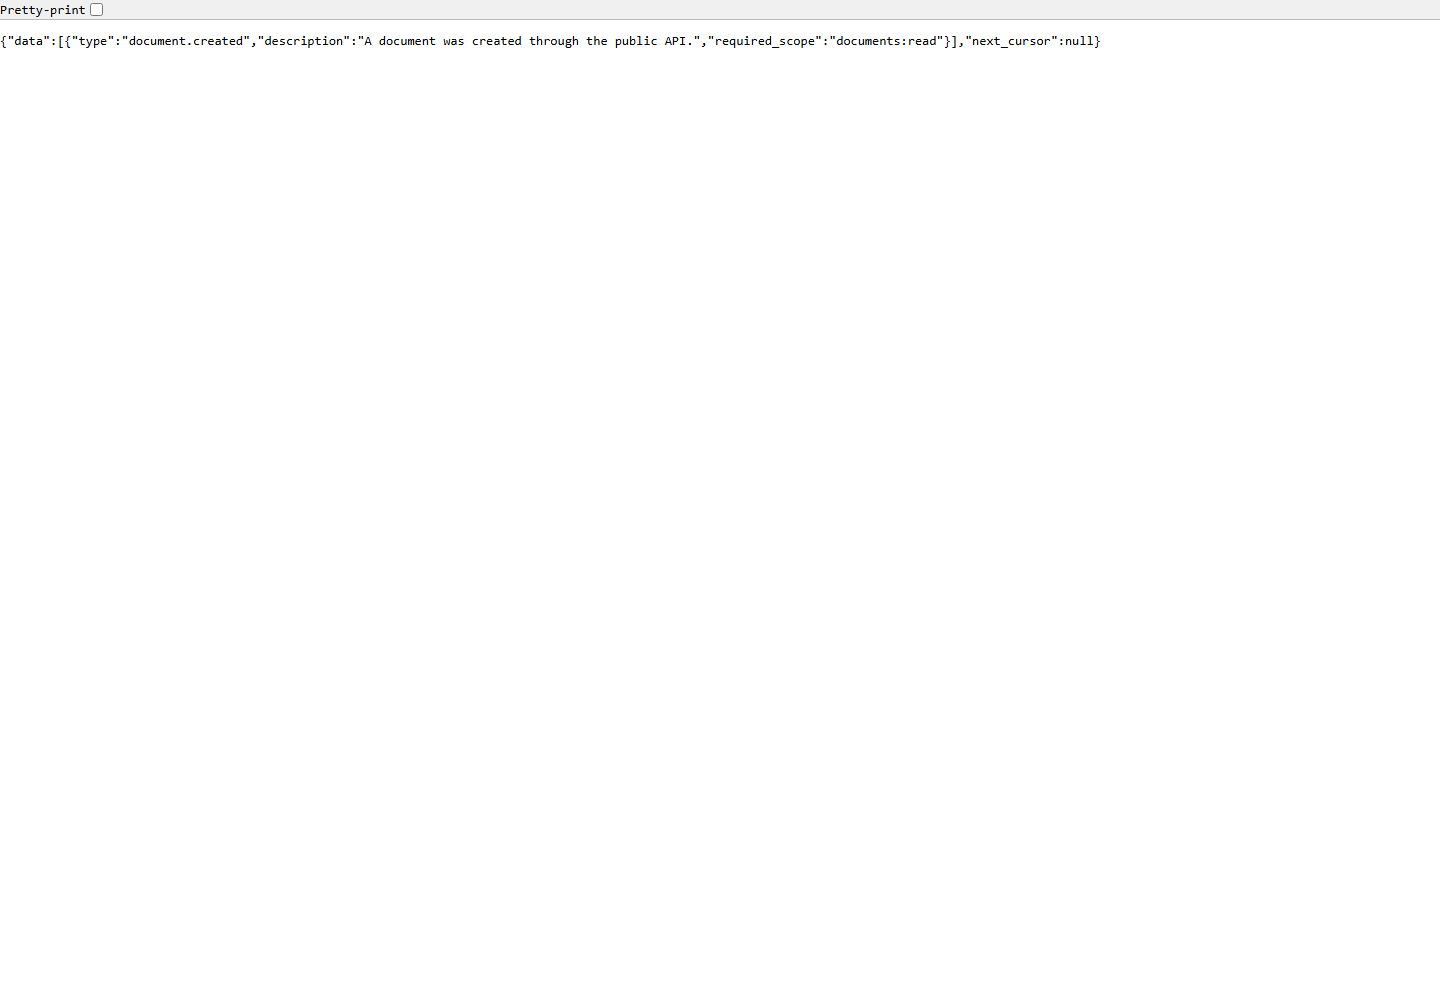
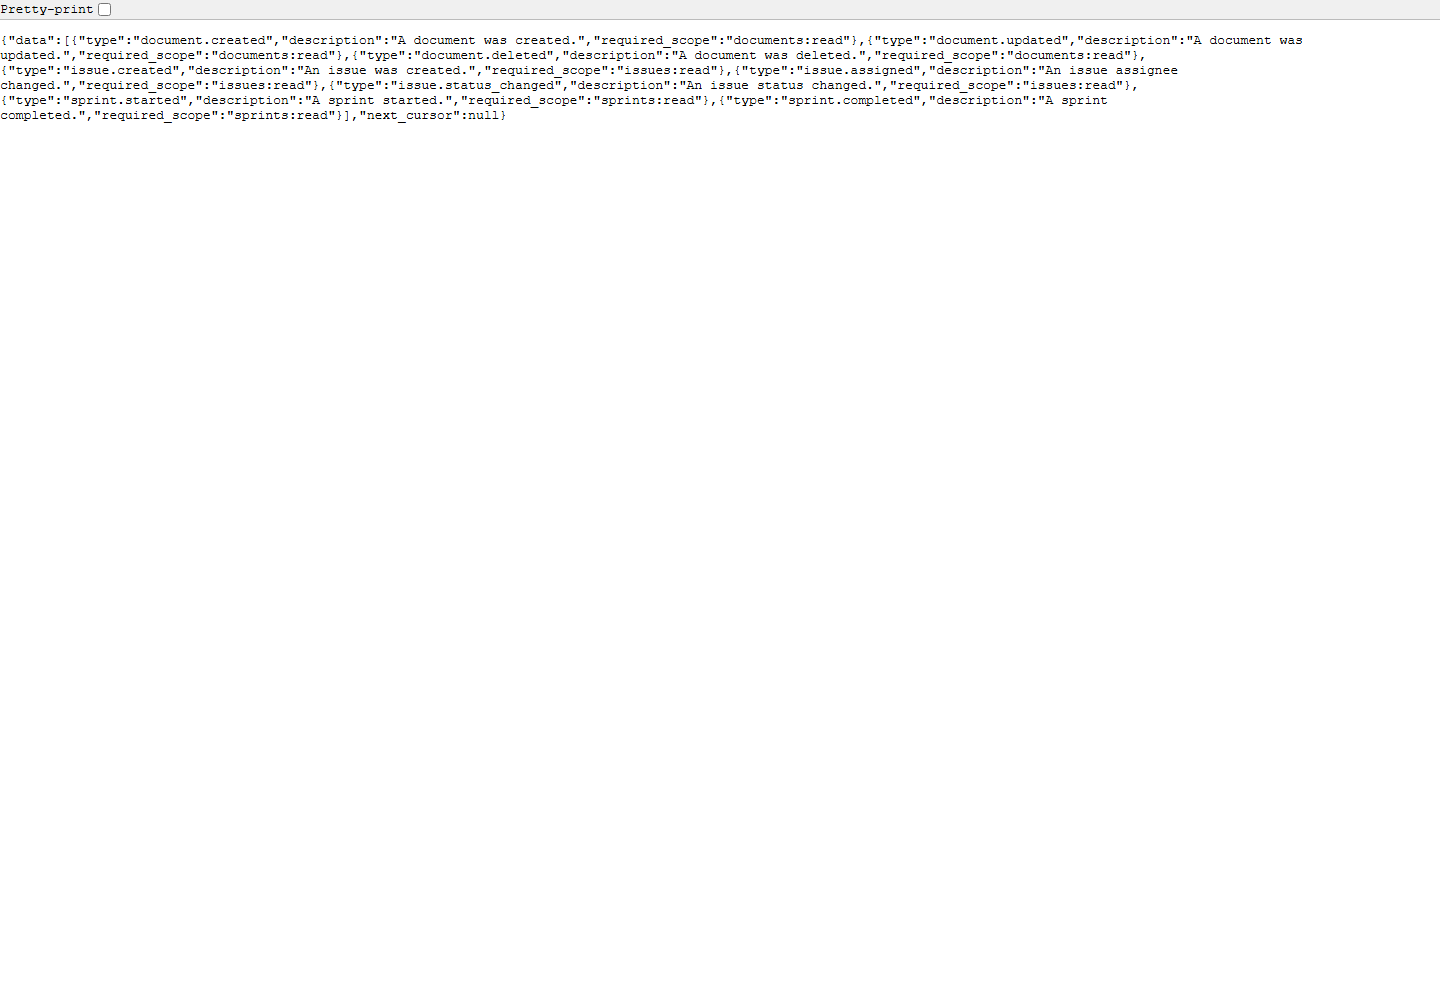
Document live Plugforge deployment parity

Changed region(s): [[0.0, 0.0, 0.8125, 0.124], [0.8438, 0.031, 0.9062, 0.062]]

diff --git a/PLUGFORGE_SUBMISSION_CHECKLIST.md b/PLUGFORGE_SUBMISSION_CHECKLIST.md
@@ -40,16 +40,17 @@ Use this as the quick evidence map for the Week 6 Plugforge submission.
 - Public scopes registry: `https://d2rr1fze9v095b.cloudfront.net/api/v1/scopes`
 - Public webhook event registry: `https://d2rr1fze9v095b.cloudfront.net/api/v1/webhooks/events`
 - API health through CloudFront: `https://d2rr1fze9v095b.cloudfront.net/health`
-- Elastic Beanstalk version verified: `v20260602113723`
+- Elastic Beanstalk version verified: `v20260603152032`
 - Production read-only OAuth app created: `Plugforge MVP Read-Only Grader App`
 - Production read-only OAuth `client_id`: `ship_app_8d138f5f898a7dd8bd9ae88e1d6f18c5`
 - Production read-only scopes: `documents:read`
 - Production full demo OAuth app: `Plugforge MVP Grader App`
 - Production full demo OAuth `client_id`: `ship_app_d8200057ae8afcd914151e0738af09f3`
 - Production full demo scopes: `documents:read`, `documents:write`, `webhooks:manage`
-- Production webhook registry currently exposes the deployed `document.created`
-  event. This branch expands the registry to all required events and should be
-  deployed before external grading.
+- Production webhook registry exposes all eight required events:
+  `document.created`, `document.updated`, `document.deleted`, `issue.created`,
+  `issue.assigned`, `issue.status_changed`, `sprint.started`, and
+  `sprint.completed`.
 
 ## Live MVP Proof
 
@@ -102,11 +103,11 @@ node integrations/cli/src/index.mjs --help
 | Per-app/per-token rate limiting | Pass: `api/src/platform/ratelimit.ts`; platform tests assert token isolation, shared app bucket enforcement, `X-RateLimit-*`, and `Retry-After`; generated OpenAPI declares those headers. |
 | Public audit trail | Pass: `api/src/platform/audit.ts`; `/api/v1/oauth/apps/{id}/audit`; Developer Portal API Activity table. |
 | Developer Portal controls | Pass: `web/src/pages/DeveloperPortal.tsx` lists/registers apps, shows/rotates one-time secrets, manages subscriptions, browses deliveries, replays deliveries, and shows public API audit rows. |
-| Webhook event registry and schemas | Pass in branch: `api/src/platform/events.ts` registers `document.created`, `document.updated`, `document.deleted`, `issue.created`, `issue.assigned`, `issue.status_changed`, `sprint.started`, and `sprint.completed` with Zod schemas. |
-| Event bus and domain publication | Pass in branch: `IEventBus` and in-process implementation live in `api/src/platform/events.ts`; document writes publish from `api/src/platform/domain/documents.ts`; fitness blocks route-layer webhook publication. |
+| Webhook event registry and schemas | Pass: `api/src/platform/events.ts` registers `document.created`, `document.updated`, `document.deleted`, `issue.created`, `issue.assigned`, `issue.status_changed`, `sprint.started`, and `sprint.completed` with Zod schemas; live registry verified on `v20260603152032`. |
+| Event bus and domain publication | Pass: `IEventBus` and in-process implementation live in `api/src/platform/events.ts`; document writes publish from `api/src/platform/domain/documents.ts`; fitness blocks route-layer webhook publication. |
 | Webhook signing, retries, DLQ, replay | Pass: `api/src/platform/webhooks.ts`; tests assert `Ship-Signature`, `Idempotency-Key`, first retry near 1s, 4xx dead-lettering, delivery listing, replay, rotation, and deactivation. |
 | Regression and performance guardrails | Partial in this session: focused Playwright PKCE, `plugforge:final-check`, `plugforge:fitness`, type-check, and build passed. Full 600+ Playwright suite should be run via the repo E2E runner workflow, not directly. |
-| Deployed public app and grader app | Pass for current deployed MVP: CloudFront URLs above plus read-only grader app. Expanded webhook registry changes are branch-ready and need deployment before graders inspect all eight events live. |
+| Deployed public app and grader app | Pass: CloudFront URLs above plus read-only grader app; Elastic Beanstalk version `v20260603152032` exposes the all-event webhook registry live. |
 
 ## Demo Flow
 

diff --git a/PLUGFORGE_FINAL_SUBMISSION.md b/PLUGFORGE_FINAL_SUBMISSION.md
@@ -93,7 +93,7 @@ new app.
 | Developer Portal app/webhook management | `web/src/pages/DeveloperPortal.tsx` lists/registers apps, shows/rotates one-time secrets, manages subscriptions, browses deliveries, opens delivery details, and sends/replays delivery workflows through public platform endpoints including `/api/v1/oauth/apps/{id}/webhook-deliveries/{deliveryId}/replay`. |
 | Webhook event registry, domain event bus, signing, retries, DLQ, replay | `api/src/platform/events.ts` defines event types and Zod schemas as data; domain writes publish through `IEventBus`; `api/src/platform/webhooks.ts` signs with `Ship-Signature`, retries 5xx/timeouts on `1s, 4s, 16s, 1m, 5m, 30m`, dead-letters 4xx/permanent failures, and preserves `Idempotency-Key` on replay. |
 | Existing regression/perf guardrails | Focused Playwright PKCE passed; `plugforge:final-check`, `plugforge:fitness`, type-check, and build passed. Full 600+ Playwright regression suite was not rerun in this constrained session; use the repo E2E runner workflow for the complete mainline gate. |
-| Deployed and publicly accessible with OpenAPI and read-only grader app | Live URLs above; read-only app `ship_app_8d138f5f898a7dd8bd9ae88e1d6f18c5`. The expanded webhook registry is implemented and tested locally; deploy this branch before grader review to expose all eight event definitions live. |
+| Deployed and publicly accessible with OpenAPI and read-only grader app | Live URLs above; read-only app `ship_app_8d138f5f898a7dd8bd9ae88e1d6f18c5`. Production is on Elastic Beanstalk version `v20260603152032`; the live webhook registry exposes all eight required event definitions. |
 
 ## Performance Target Map
 
@@ -228,8 +228,7 @@ proof above used an ephemeral Webhook.site URL, then verified Ship's
   `document.created`, `document.updated`, `document.deleted`, `issue.created`,
   `issue.assigned`, `issue.status_changed`, `sprint.started`, and
   `sprint.completed`.
-- Production currently responds with the deployed `document.created` registry;
-  the branch contains and tests the expanded registry and needs deployment before
-  final external grading.
+- Production webhook registry exposes all eight required event types on Elastic
+  Beanstalk version `v20260603152032`.
 - Operational tradeoffs and next steps are documented in
   `PLUGFORGE_OPERATIONAL_READINESS.md`.

diff --git a/PLUGFORGE_SUBMISSION_REQUIREMENTS.md b/PLUGFORGE_SUBMISSION_REQUIREMENTS.md
@@ -12,7 +12,7 @@ Deadline: Sunday 10:59 PM CT.
 | AI cost analysis | Ready | `PLUGFORGE_AI_COST_ANALYSIS.md` tracks dev spend, production projections, webhook fanout, agent active rate, and retention assumptions. |
 | Per-epic write-up | Ready | `PLUGFORGE_PER_EPIC_WRITEUP.md`. Epic 6 proof is TTFE/flows; Epic 7 proof target is agent OAuth app audit rows. |
 | Three discoveries | Ready | `PLUGFORGE_DISCOVERIES.md`. |
-| Deployed application | Ready for current MVP | `PLUGFORGE_FINAL_SUBMISSION.md` lists live app, Developer Portal, OpenAPI URL, read-only OAuth app, and reviewer credentials. Branch changes after MVP submission should be deployed before final external grading. |
+| Deployed application | Ready | `PLUGFORGE_FINAL_SUBMISSION.md` lists live app, Developer Portal, OpenAPI URL, read-only OAuth app, reviewer credentials, and the verified Elastic Beanstalk version `v20260603152032`. |
 | Social post | Ready draft | `PLUGFORGE_SOCIAL_POST.md`; screenshot target is terminal `ship webhooks tail` showing a verified signed event, tag `@GauntletAI`. |
 
 ## Video Runbook

diff --git a/PLUGFORGE_README.md b/PLUGFORGE_README.md
@@ -8,9 +8,8 @@ Start here when reviewing the Week 6 final submission.
 - Developer Portal: `https://d2rr1fze9v095b.cloudfront.net/settings/developers`
 - OpenAPI: `https://d2rr1fze9v095b.cloudfront.net/api/v1/openapi.json`
 - Read-only grader OAuth app: `ship_app_8d138f5f898a7dd8bd9ae88e1d6f18c5` (`documents:read`)
-- Webhook registry status: production currently exposes `document.created`;
-  this branch implements and tests all eight required webhook event definitions
-  and needs deployment before final external grading.
+- Webhook registry status: production exposes all eight required webhook event
+  definitions on Elastic Beanstalk version `v20260603152032`.
 - Evidence pack: `PLUGFORGE_EVIDENCE_PACK.md`
 - Live proof IDs: `PLUGFORGE_LIVE_PROOF.md`
 - Demo video script: `PLUGFORGE_DEMO_SCRIPT.md`

diff --git a/docs/screenshots/plugforge/README.md b/docs/screenshots/plugforge/README.md
@@ -1,6 +1,6 @@
 # Plugforge Screenshots
 
-Generated: `2026-06-03T19:05:29.568Z`
+Generated: `2026-06-03T20:32:47.328Z`
 
 Base URL: `https://d2rr1fze9v095b.cloudfront.net`
 
